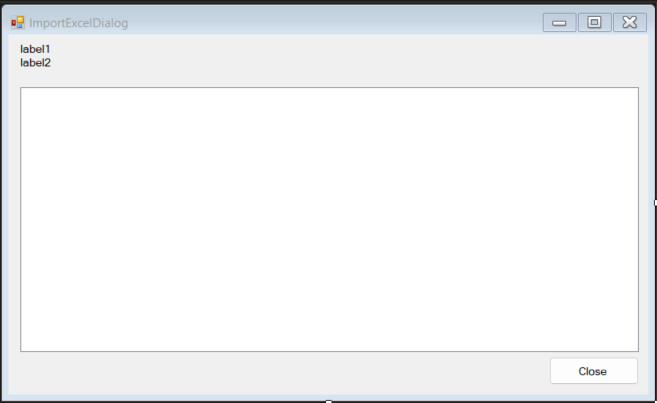
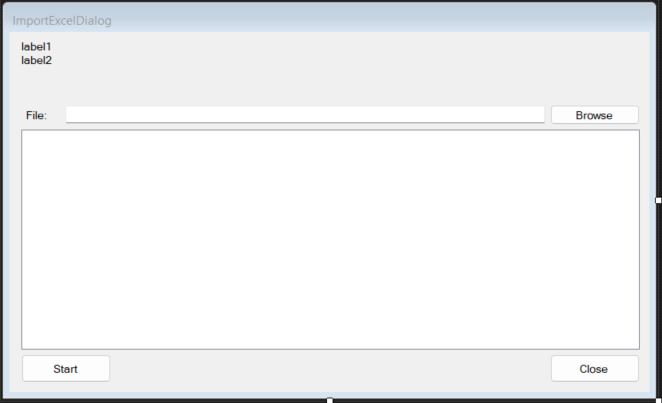
add file browsing capability to import Excel dialog and implement view interface

Changed region(s): [[0.0, 0.0, 1.0, 1.0]]

diff --git a/docs/detailed_design.md b/docs/detailed_design.md
@@ -175,7 +175,7 @@ These types are uniquely identifiable by their name or title fields, so if there
 - Selected fields are editable. Columns which are not editable will be locked.
 - Must be in format of Excel exports.
 
-#### Import process
+#### Media Item Import process
 TODO
 
 ### User interface
